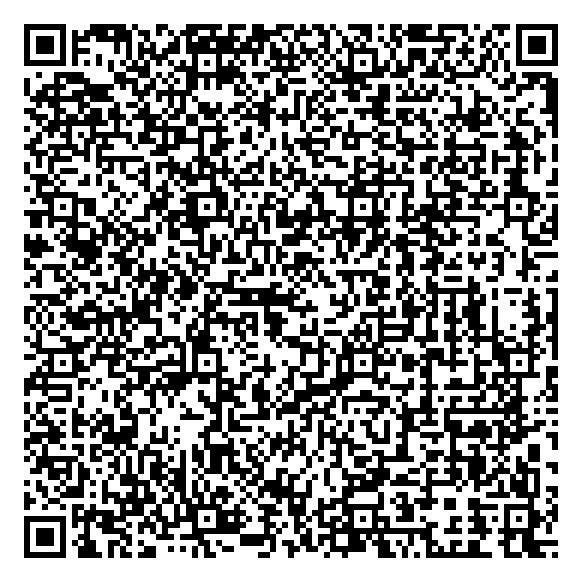
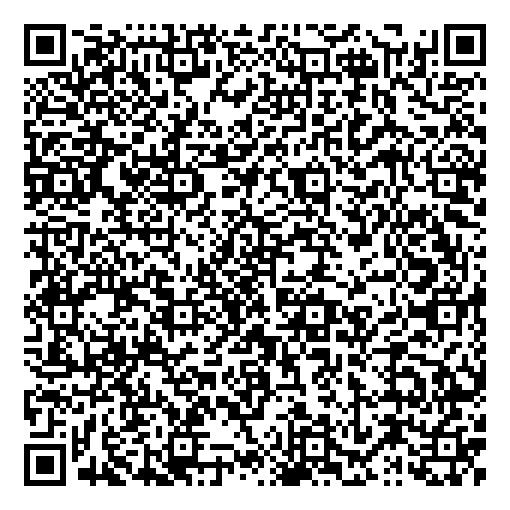
16112023

diff --git a/client/src/components/retrieve.js b/client/src/components/retrieve.js
@@ -50,8 +50,8 @@ return(<>
                 <th>Entity Name</th>
                 <th>Details</th>
                 <th>Batch ID</th>
-                <th>Latitude(*10^-4)</th>
-                <th>Longitude(*10^-4)</th>
+                <th>Latitude</th>
+                <th>Longitude</th>
                 <th>Timestamp</th>
                 <th>Address</th>
             </tr>
@@ -76,21 +76,22 @@ return(<>
                       borderCollapse: "collapse",
                       padding: "7px",
                       width: "100px",
-                    }}>{String(entry.lat)}</td>
-                    <td style={{
-                      backgroundColor: "#96D4D4",
-                      border: "1px solid white",
-                      borderCollapse: "collapse",
-                      padding: "7px",
-                      width: "100px",
-                    }}>{String(entry.long)}</td>
+                    }}>{String(entry.batch)}</td>
                 <td style={{
                       backgroundColor: "#96D4D4",
                       border: "1px solid white",
                       borderCollapse: "collapse",
                       padding: "7px",
                       width: "100px",
-                    }}>{String(entry.batch)}</td>
+                    }}>{String(entry.lat)}</td>
+                <td style={{
+                      backgroundColor: "#96D4D4",
+                      border: "1px solid white",
+                      borderCollapse: "collapse",
+                      padding: "7px",
+                      width: "100px",
+                    }}>{String(entry.long)}</td>
+                
                 <td style={{
                       backgroundColor: "#96D4D4",
                       border: "1px solid white",

diff --git a/client/src/components/store.js b/client/src/components/store.js
@@ -37,9 +37,11 @@ const Store=({state})=>{
         //console.log(ethers.utils.parseUnits(userLocation.latitude.toPrecision(5).split('.')[0], userLocation.latitude.toPrecision(5).split('.')[1]));
         //console.log(BigNumber.from(userLocation.latitude.toPrecision(5).split('.')[0]).mul(BigNumber.from(10).pow(userLocation.latitude.toPrecision(5).split('.')[1])));
         try{
-            let lat=userLocation.latitude.toPrecision(7).split('.')[0]+userLocation.latitude.toPrecision(7).split('.')[1]
-            let long=userLocation.longitude.toPrecision(7).split('.')[0]+userLocation.longitude.toPrecision(7).split('.')[1]
-            const transaction= await contract.store(entity,details,batch,lat,long)
+            let lat=String(userLocation.latitude)
+            // .toPrecision(7).split('.')[0]+userLocation.latitude.toPrecision(7).split('.')[1]
+            let long=String(userLocation.longitude)
+            // .toPrecision(7).split('.')[0]+userLocation.longitude.toPrecision(7).split('.')[1]
+            const transaction= await contract.store(entity,details,lat,long,batch)
             await transaction.wait();
             console.log("Transaction is done")
         }

diff --git a/client/src/App.js b/client/src/App.js
@@ -16,7 +16,7 @@ function App() {
   const [account, setAccount] = useState("None");
   useEffect(()=>{
     const connectWallet=async()=>{
-      const contractAddress="0xcB8A5cC914b2e6d43Fe31f6965f69E6034FF67F8";
+      const contractAddress="0x66A3588086619717E1D43CdEFE44ea8F9971c59f";
       const contractABI=abi.abi;
       try{
         const {ethereum}=window;

diff --git a/client/src/components/store.py b/client/src/components/store.py
@@ -1,8 +1,3 @@
-# import sys
-
-
-# retrieve=sys.argv[1]
-
 from flask import Flask,request
 from flask_cors import CORS, cross_origin
 app = Flask(__name__)
@@ -12,6 +7,7 @@ from pyqrcode import QRCode
 import json
 from PIL import Image
 import os
+from datetime import datetime
 
 #Open image using Image module
 
@@ -35,13 +31,12 @@ def search_data():
     final_dict=list()
     with open("entries.txt","r") as f: 
         l=eval(f.read())
-
     for i in range(len(l)):
         a=l[i]
-        if batchid==int(a[2]):
+        if batchid==int(a[4]['hex'],16):
             result[i]=l[i]
     for i in result.values():
-        final_dict.append({"Entity":i[0],"Details":i[1],"Batch ID":i[2],"Latitude":i[3],"Longitude":i[4],"Timestamp":i[5],"Address":i[6]})
+        final_dict.append({"Entity":i[0],"Details":i[1],"Batch ID":int(i[4]['hex'],16),"Latitude":i[2],"Longitude":i[3],"Timestamp":str(datetime.fromtimestamp(int(i[5]['hex'],16))),"Address":i[6]})
     final_dict=json.dumps(final_dict)
     qrcode(final_dict)
     return final_dict
